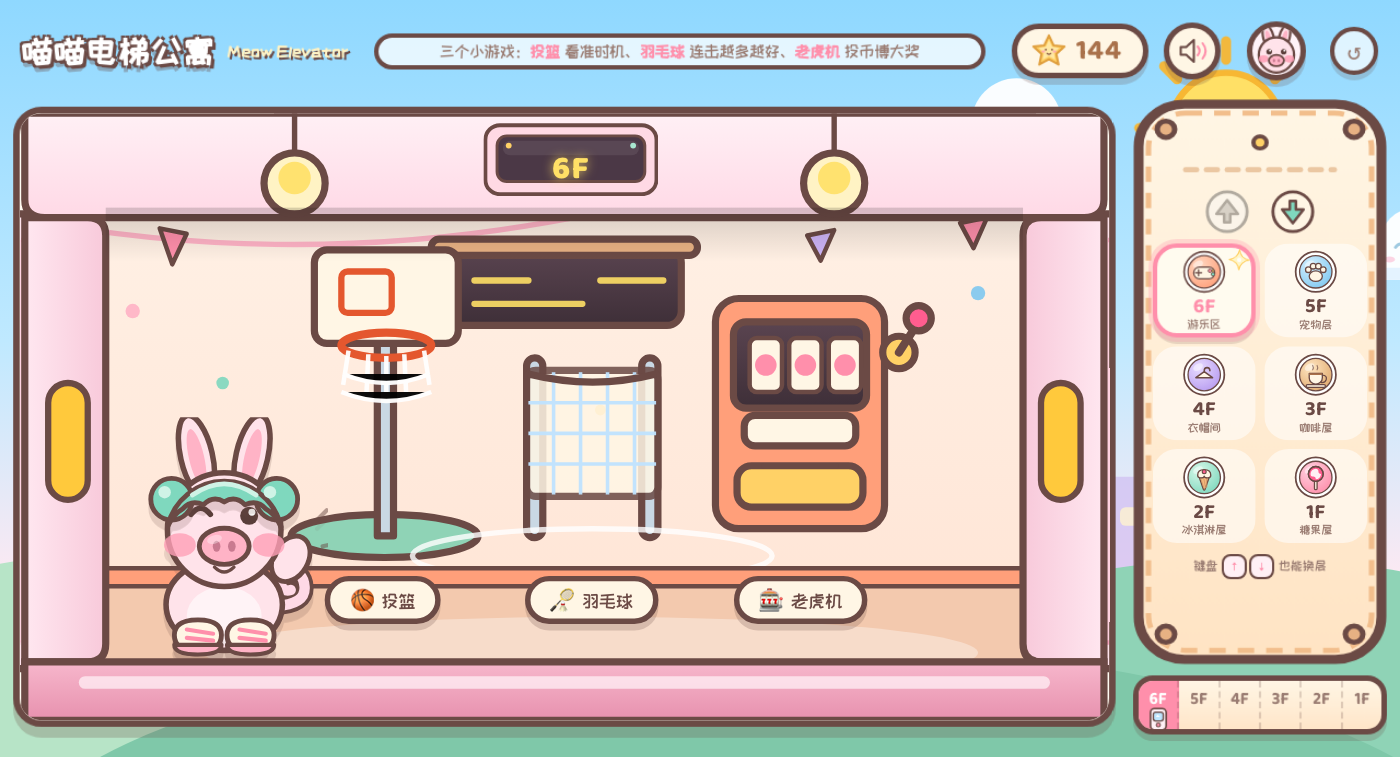
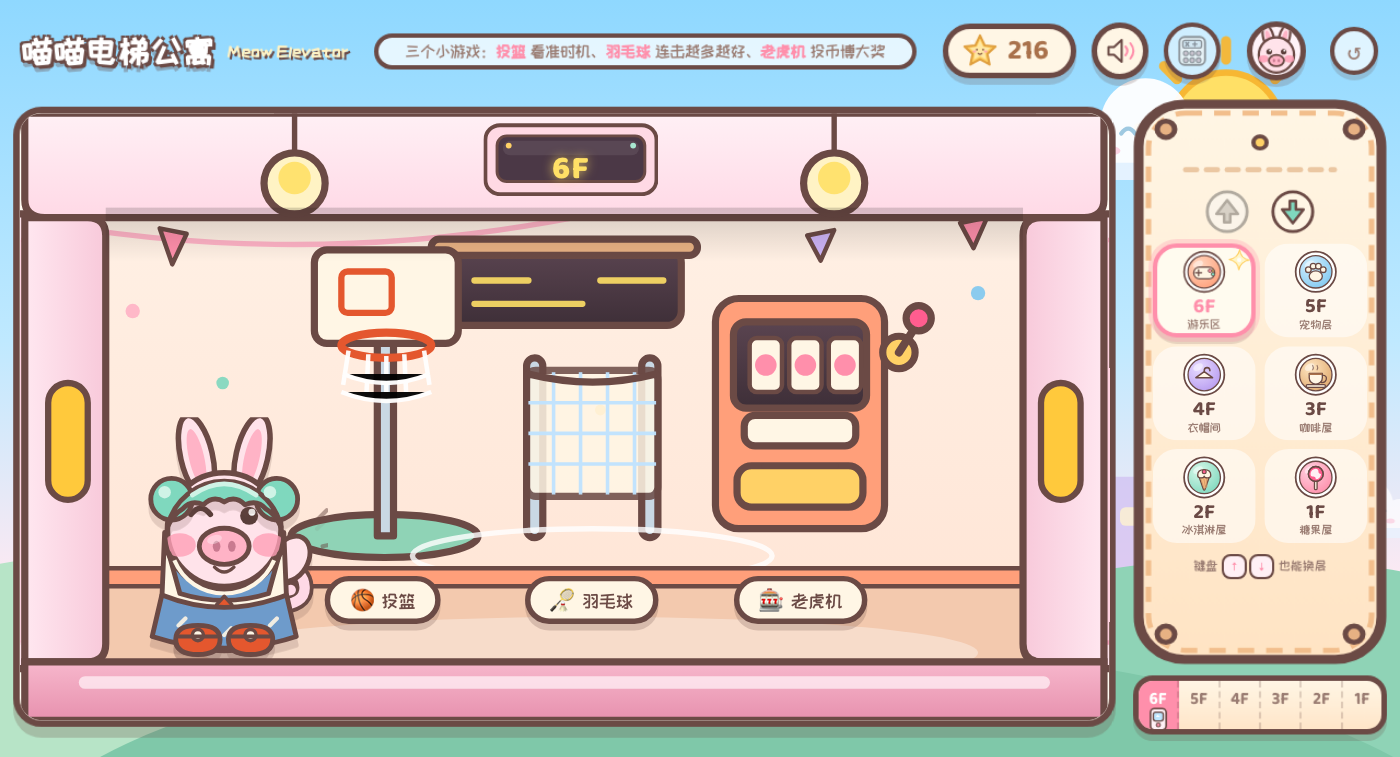
6F 小游戏加自适应难度：默认第1档（投篮 1.9s/羽毛球 1.7s），连续2次没成绩降档、连续过关升档，档位存存档

Changed region(s): [[0.2764, 0.0304, 0.8907, 0.2431], [0.0921, 0.6988, 0.215, 0.8811], [0.9829, 0.2734, 1.0, 0.395]]

diff --git a/js/floors/arcade.js b/js/floors/arcade.js
@@ -20,6 +20,8 @@
   var actionEl = document.querySelector('#arcade-action');
   var closeEl = document.querySelector('#arcade-close');
 
+  var levelEl = document.querySelector('#arcade-level');
+  var activeGame = '';
   var raf = null;
   var timers = [];
   var active = null;
@@ -35,6 +37,48 @@
   function stopRaf() { if (raf) cancelAnimationFrame(raf); raf = null; }
   function stopTimers() { timers.forEach(window.clearTimeout); timers = []; }
   function coins() { return EG.State.data.coins; }
+
+  /* ---------- 难度档位（1 最慢，面给 5-8 岁小朋友） ---------- */
+  function cfgOf(game) { return C[game]; }
+
+  function levelOf(game) {
+    var g = EG.State.data.gameLevel || (EG.State.data.gameLevel = {});
+    var lv = Number(g[game]) || 1;
+    return Math.max(1, Math.min(cfgOf(game).maxLevel, lv));
+  }
+
+  function speedOf(game, level) {
+    var cfg = cfgOf(game);
+    return cfg.baseSpeed * (1 + cfg.step * (level - 1));
+  }
+
+  function badge() {
+    var lv = levelOf(activeGame);
+    var max = cfgOf(activeGame).maxLevel;
+    var stars = '';
+    for (var i = 1; i <= max; i++) stars += (i <= lv ? '★' : '☆');
+    return '速度 ' + stars;
+  }
+
+  function updateBadge() {
+    if (levelEl && activeGame) levelEl.textContent = badge();
+  }
+
+  /* 升 / 降一档；返回是否真的变了 */
+  function shiftLevel(game, delta) {
+    var cfg = cfgOf(game);
+    var g = EG.State.data.gameLevel || (EG.State.data.gameLevel = {});
+    var now = levelOf(game);
+    var next = Math.max(1, Math.min(cfg.maxLevel, now + delta));
+    if (next === now) return false;
+    g[game] = next;
+    EG.State.save();
+    updateBadge();
+    EG.Say.show(delta > 0
+      ? '好厉害！' + (game === 'basket' ? '球速' : '球速') + '加快一点点～（第 ' + next + ' 档）'
+      : '慢慢来，我把速度调慢一点点～（第 ' + next + ' 档）', 2600);
+    return true;
+  }
   function setScore(t) { scoreEl.textContent = t; }
   function setAction(label, fn) { actionEl.textContent = label; actionEl.onclick = fn; actionEl.disabled = false; }
 
@@ -56,12 +100,14 @@
   }
 
   function open(cfg) {
+    activeGame = cfg.game || '';
     titleEl.textContent = cfg.title;
     hintEl.innerHTML = cfg.hint;
     bodyEl.innerHTML = cfg.body || '';
     setScore(cfg.score || '');
     setAction(cfg.action || '开始', cfg.onAction);
     root.classList.add('is-open');
+    updateBadge();
     EG.PetWear.refresh();      // 游戏里出场的宠物也戴着自己的装扮
   }
 
@@ -80,9 +126,13 @@
   /* ---------- ① 投篮 ---------- */
   function startBasket() {
     var cfg = C.basket;
+    var level = levelOf('basket');
+    var z = cfg.zones[level - 1] || cfg.zones[0];       // [完美半宽, 命中半宽]
     var shots = cfg.shots, score = 0, pos = 0, dir = 1, busy = false;
+    var hitStreak = 0, missStreak = 0;
 
     open({
+      game: 'basket',
       title: '🏀 投篮小游戏',
       hint: '看准绿色区域点 <b>投球</b>，越靠正中间给得越多（共 ' + shots + ' 球）',
       score: '还剩 ' + shots + ' 球',
@@ -92,7 +142,7 @@
           '<img class="bb__hoop" src="' + A.hoop + '" alt="">' +
           petTag('bb__pet', 'dog') +
           '<img class="bb__ball" id="arc-ball" src="' + A.ball + '" alt="">' +
-          '<div class="bb__bar">' +
+          '<div class="bb__bar" style="--z-perfect:' + z[0] + '%;--z-good:' + z[1] + '%">' +
             '<span class="bb__zone bb__zone--good"></span>' +
             '<span class="bb__zone bb__zone--perfect"></span>' +
             '<i class="bb__marker" id="arc-mark"></i>' +
@@ -104,8 +154,10 @@
     var ball = bodyEl.querySelector('#arc-ball');
     var mark = bodyEl.querySelector('#arc-mark');
 
+    var speed = speedOf('basket', level);
+
     function loop() {
-      pos += dir * cfg.speed;
+      pos += dir * speed;
       if (pos >= 100) { pos = 100; dir = -1; }
       else if (pos <= 0) { pos = 0; dir = 1; }
       mark.style.left = pos + '%';
@@ -118,10 +170,22 @@
       if (busy) return;
       busy = true;
       var d = Math.abs(pos - 50);
-      var perfect = d <= 12, good = d <= 24;
+      var perfect = d <= z[0], good = d <= z[1];
       shots -= 1;
       if (perfect || good) {
         var n = perfect ? cfg.perfect : cfg.good;
+        hitStreak += 1; missStreak = 0;
+        /* 连续过关就升一档（速度变快、窗口变窄） */
+        if (hitStreak >= cfg.upStreak) {
+          hitStreak = 0;
+          if (shiftLevel('basket', 1)) {
+            level = levelOf('basket');
+            z = cfg.zones[level - 1] || z;
+            speed = speedOf('basket', level);
+            var bar = bodyEl.querySelector('.bb__bar');
+            if (bar) bar.style.cssText = '--z-perfect:' + z[0] + '%;--z-good:' + z[1] + '%';
+          }
+        }
         score += n;
         ball.classList.remove('is-miss');
         ball.classList.add('is-shoot');
@@ -133,6 +197,18 @@
         ball.classList.add('is-miss');
         EG.Audio.play('error');
         setScore('偏了…再来！');
+        /* 连续 2 次没进：降一档，指针变慢、窗口变宽 */
+        missStreak += 1; hitStreak = 0;
+        if (missStreak >= cfg.downStreak) {
+          missStreak = 0;
+          if (shiftLevel('basket', -1)) {
+            level = levelOf('basket');
+            z = cfg.zones[level - 1] || z;
+            speed = speedOf('basket', level);
+            var bar2 = bodyEl.querySelector('.bb__bar');
+            if (bar2) bar2.style.cssText = '--z-perfect:' + z[0] + '%;--z-good:' + z[1] + '%';
+          }
+        }
       }
       later(function () {
         ball.classList.remove('is-shoot', 'is-miss');
@@ -150,9 +226,13 @@
   /* ---------- ② 羽毛球 ---------- */
   function startBadminton() {
     var cfg = C.badminton;
-    var x = 92, dir = -1, speed = cfg.speed, rally = 0, over = false;
+    var level = levelOf('badminton');
+    var base = speedOf('badminton', level);
+    var x = 92, dir = -1, speed = base, rally = 0, over = false;
+    var hitStreak = 0, missStreak = 0;
 
     open({
+      game: 'badminton',
       title: '🏸 羽毛球小游戏',
       hint: '球飞到你这边（左边）时点 <b>挥拍</b>：每接住一次 +' + cfg.coins + ' 颗，越接越快',
       score: '连击 0 次',
@@ -189,11 +269,19 @@
       if (over) return;
       if (dir < 0 && x <= cfg.zone) {
         rally += 1;
+        hitStreak += 1; missStreak = 0;
         pay(cfg.coins, shut, false);
         EG.Audio.play('pop');
         dir = 1;
-        speed = Math.min(speed * cfg.ramp, 3.4);
+        /* 同一回合里慢慢加快（比以前温和），上限跟着档位走 */
+        speed = Math.min(speed * cfg.ramp, base * cfg.maxRamp);
         setScore('连击 ' + rally + ' 次｜共 ' + (rally * cfg.coins) + ' 颗');
+        /* 连续接住很多次 → 升一档 */
+        if (hitStreak >= cfg.upStreak && shiftLevel('badminton', 1)) {
+          level = levelOf('badminton');
+          base = speedOf('badminton', level);
+          hitStreak = 0;
+        }
       } else {
         finish('挥空了～');
       }
@@ -204,6 +292,12 @@
       over = true;
       stopRaf();
       EG.Audio.play('error');
+      /* 没接到 / 挥空都算一次失误：连续 2 次就降一档 */
+      missStreak += 1; hitStreak = 0;
+      if (missStreak >= cfg.downStreak) {
+        missStreak = 0;
+        shiftLevel('badminton', -1);
+      }
       var total = rally * cfg.coins;
       setScore(msg + ' 连击 ' + rally + ' 次，共拿 ' + total + ' 颗');
       setAction('再来一局', startBadminton);

diff --git a/js/core/config.js b/js/core/config.js
@@ -303,8 +303,28 @@ window.EG = window.EG || {};
         { id: 'badminton', name: '羽毛球', icon: '🏸', x: 52.5 },
         { id: 'slot',      name: '老虎机', icon: '🎰', x: 71.7 }
       ],
-      basket:    { shots: 3, speed: 1.7, good: 2, perfect: 3 },      // 3 球机会，越靠中间给得越多
-      badminton: { coins: 1, speed: 1.1, ramp: 1.12, zone: 26 },     // 连击越多越快
+      /* 难度自适应：5 档，第 1 档最慢（面向 5-8 岁）。
+         连续 2 次没成绩就降一档，连续过关就升一档，档位存在存档里。 */
+      basket: {
+        shots: 3, good: 2, perfect: 3,
+        baseSpeed: 0.9,      // 第 1 档：指针一个来回约 1.9 秒
+        step: 0.18,          // 每升一档快 18%
+        maxLevel: 5,
+        zones: [[16, 30], [14, 27], [12, 24], [11, 22], [10, 20]],   // [完美半宽, 命中半宽] %
+        upStreak: 3,         // 连中 3 球升一档
+        downStreak: 2        // 连续 2 球不中降一档
+      },
+      badminton: {
+        coins: 1,
+        baseSpeed: 0.65,     // 第 1 档：球飞到你这边约 1.7 秒
+        step: 0.16,
+        maxLevel: 5,
+        ramp: 1.06,          // 同一回合里每接住一次加快 6%（以前是 12%，对小朋友太陡）
+        maxRamp: 1.9,
+        zone: 26,            // 左边接球区宽度（%）
+        upStreak: 4,         // 连击 4 次升一档
+        downStreak: 2        // 连续 2 次没接到降一档
+      },
       slot:      { cost: 1, triple: 8, double: 1,                    // 投币 1 颗，三个一样中 8 颗
                    symbols: ['coin', 'heart', 'lolly', 'sparkle'] }
     },

diff --git a/styles/arcade.css b/styles/arcade.css
@@ -63,6 +63,7 @@
 
 .arcade__title { margin: 0; font-size: 22px; color: var(--c-pink); letter-spacing: 1px; }
 
+
 .arcade__close {
   width: 44px;
   height: 44px;
@@ -163,16 +164,32 @@
   overflow: hidden;
 }
 
+/* 命中窗口的宽度由 JS 按难度档位写进 --z-good / --z-perfect：
+   第 1 档窗口最宽（小朋友好命中），档位越高越窄 */
 .bb__zone { position: absolute; top: 0; bottom: 0; }
 .bb__zone--good {
-  left: 26%;
-  width: 48%;
+  left: calc(50% - var(--z-good, 24%));
+  width: calc(var(--z-good, 24%) * 2);
   background: rgba(168, 230, 207, 0.55);
 }
 .bb__zone--perfect {
-  left: 38%;
-  width: 24%;
+  left: calc(50% - var(--z-perfect, 12%));
+  width: calc(var(--z-perfect, 12%) * 2);
   background: repeating-linear-gradient(45deg, rgba(127, 216, 190, 0.95) 0 8px, rgba(168, 230, 207, 0.95) 8px 16px);
+}
+
+/* 弹窗标题旁边的速度档位徽章 */
+.arcade__level {
+  flex: 0 0 auto;
+  padding: 2px 12px;
+  margin-left: auto;
+  margin-right: 10px;
+  border-radius: 14px;
+  background: #FFF3F8;
+  border: 3px solid var(--c-outline);
+  font-size: 13px;
+  color: var(--c-coffee);
+  letter-spacing: 1px;
 }
 
 .bb__marker {

diff --git a/js/core/state.js b/js/core/state.js
@@ -16,6 +16,7 @@
       outfitsSeen: {},      // 穿过的搭配（第一次有新搭配奖励）
       owned: {},            // 商店里买过的商品（键：'hair:buns' / 'pet:hat'）
       mathOn: false,        // 计算练习开关（HUD 上的计算器按钮）
+      gameLevel: {},        // 6F 小游戏的难度档位 { basket: 1, badminton: 1 }（1 最慢）
       petWear: {},          // 每只宠物戴的饰品 { cat: 'hat', ... }
       stats: { candy: 0, gold: 0, icecream: 0, coffee: 0, perfect: 0, dress: 0, pet: 0, feed: 0 },
       recipes: {},          // 做过的配方
@@ -42,6 +43,7 @@
           this.data.outfitsSeen = saved.outfitsSeen || {};
           this.data.owned = saved.owned || {};
           this.data.mathOn = !!saved.mathOn;
+          this.data.gameLevel = saved.gameLevel || {};
           this.data.petWear = saved.petWear || {};
         }
       } catch (e) {

diff --git a/index.html b/index.html
@@ -106,6 +106,7 @@
         <div class="arcade__panel">
           <div class="arcade__head">
             <h3 class="arcade__title" id="arcade-title"></h3>
+            <span class="arcade__level" id="arcade-level"></span>
             <button class="arcade__close" id="arcade-close" type="button" aria-label="关闭">×</button>
           </div>
           <div class="arcade__body" id="arcade-body"></div>
